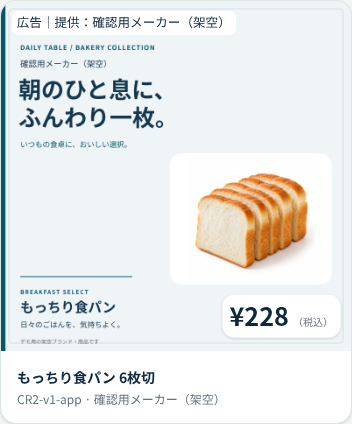
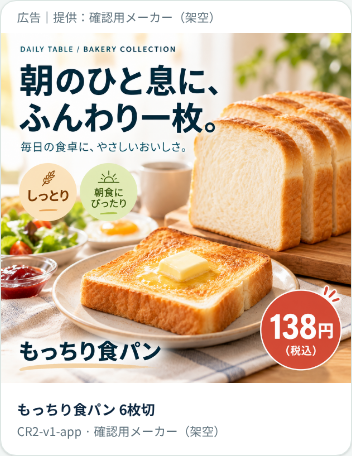
test(hackday): 提供広告の表示確認と比較画像を更新 #196

diff --git a/docs/development/ad-design-196.md b/docs/development/ad-design-196.md
@@ -41,3 +41,10 @@ node --experimental-strip-types tests/ad-assets.e2e.mts
 
 ![M1のApp広告](../images/ad196-setouchi.png)
 ![M2のApp広告](../images/ad196-daily-table.png)
+
+## 提供画像への差し替え（2026-10-25）
+ユーザー指定の8枚を加工せず、新デザインのメーカー広告8枠へ差し替えた。sourceはsupplied.jsonに添付ファイル名・実寸・SHA-256で記録する。再生成時もこの8ファイルを保持する。店舗販促背景2枚と買い物案内1枚は変更しない。
+
+画像内にコピー・ブランド・価格が含まれるため、この比較画面では価格・ブランドの重ね表示を追加しない。「広告｜提供」は画像の外へ表示する。パンの画像内価格は138円、ソースは298円。共有DBの店舗価格や、実配信の広告表示仕様は変更しない。
+
+Appの提供画像は正方形、Signageの提供画像はほぼ16:9。元ファイルの実寸を保持してobject-containで表示し、切り抜き・引き伸ばしをしない。添付画像は約2.5MiBなので、元のコード生成素材の2MiB目安とは分け、COM-03の5MiB上限以内を検証する。現行の媒体別素材や動画のDB契約は今回変更しない。
